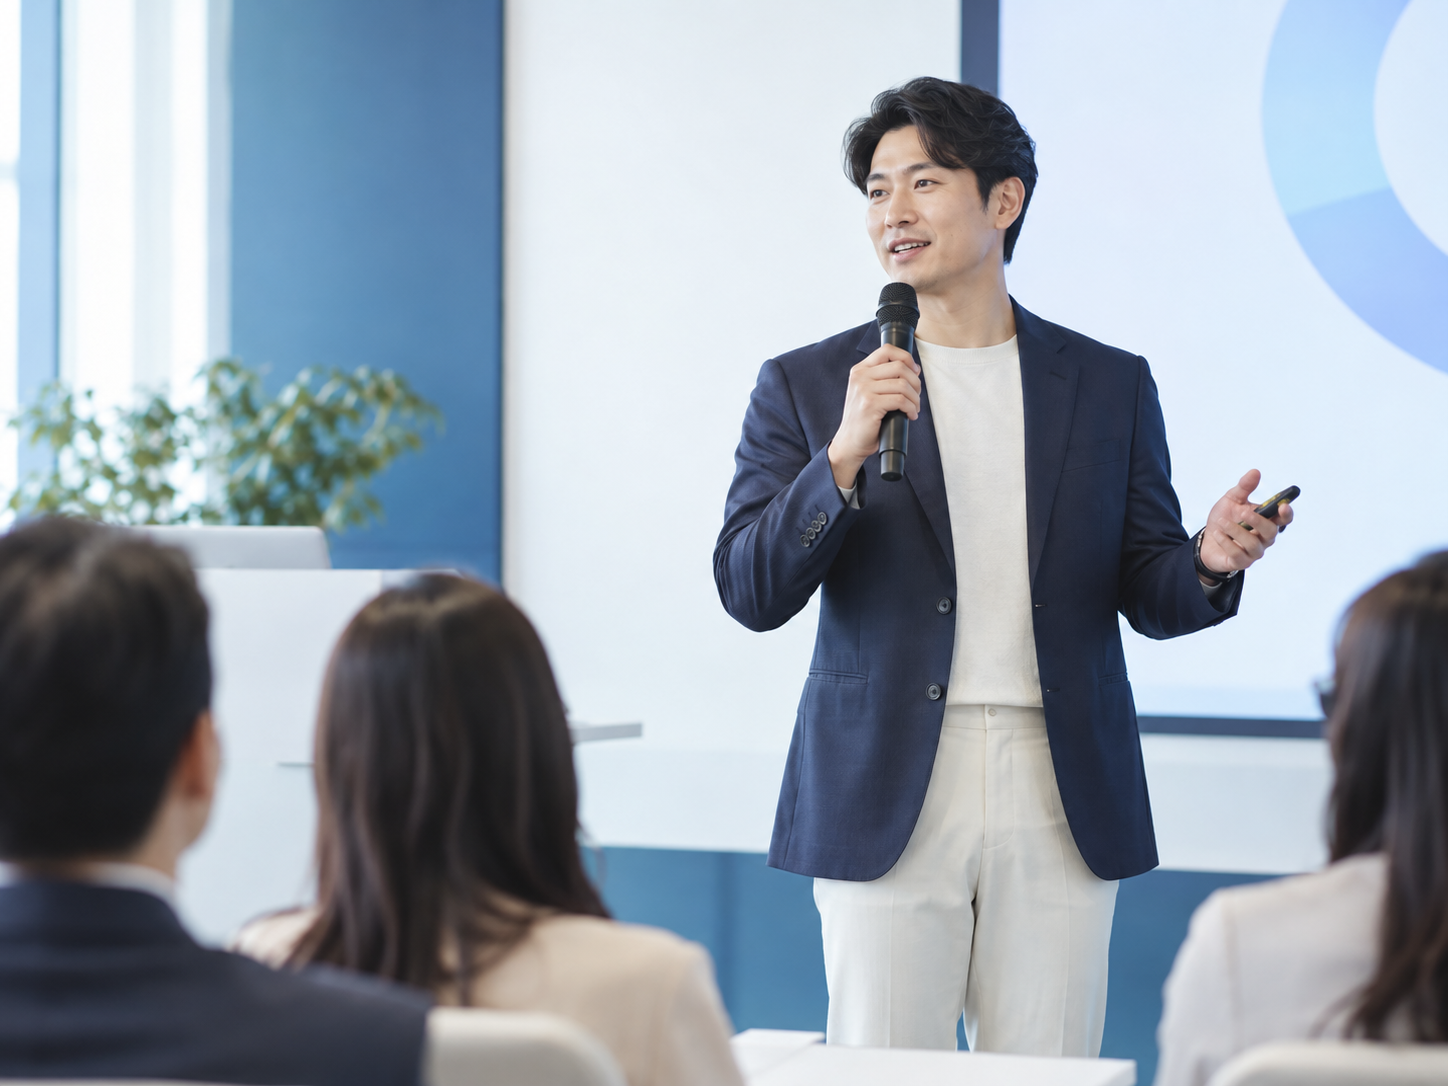
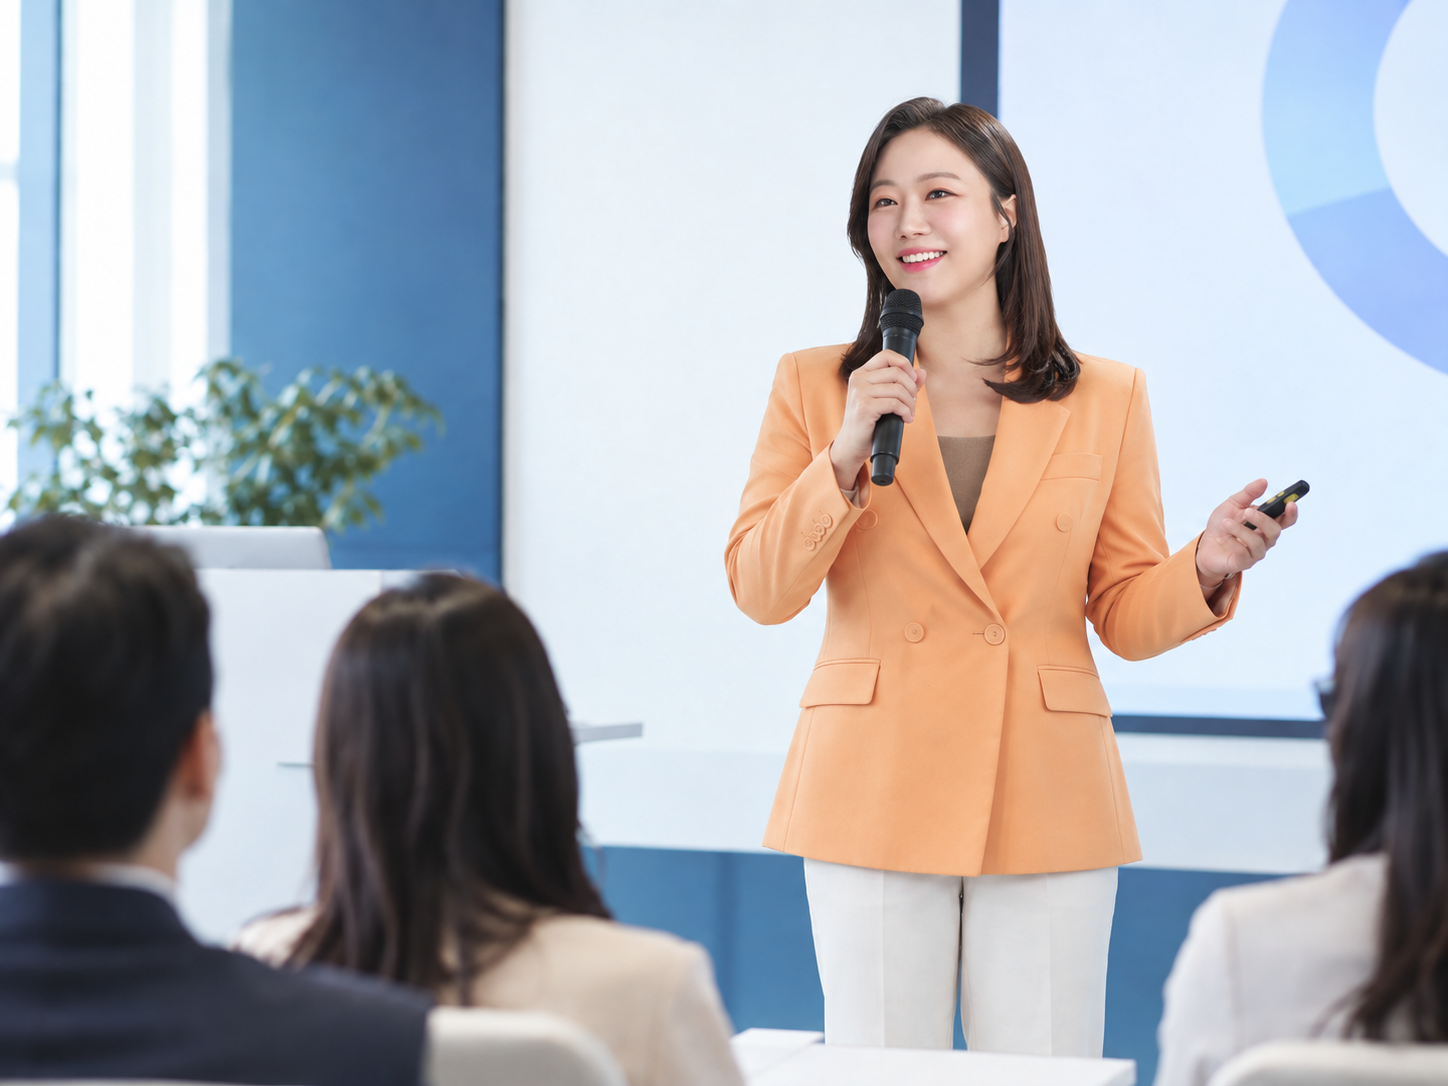
Update hero image and reviews

diff --git a/src/App.jsx b/src/App.jsx
@@ -8,6 +8,7 @@ import {
   ClipboardCheck,
   Clock,
   GraduationCap,
+  Handshake,
   MapPin,
   Menu,
   MessageCircle,
@@ -74,6 +75,19 @@ export default function App() {
     ["입시", "전형별 면접 전략"],
     ["성인", "발표·보이스 실습"],
     ["1:1", "개인별 답변 코칭"],
+  ];
+
+  const partnerLabels = [
+    "대학교 면접",
+    "공공기관 특강",
+    "기업 교육",
+    "청년센터",
+    "커리어센터",
+    "입시 컨설팅",
+    "아카데미 협업",
+    "학교 출강",
+    "기관 발표 교육",
+    "프레젠테이션 코칭",
   ];
 
   const strengths = [
@@ -323,6 +337,30 @@ export default function App() {
       text: "자기소개가 외운 티가 많이 났는데, 제 경험을 자연스럽게 말하는 방식으로 바뀌어서 면접 부담이 줄었어요.",
       author: "이직 면접 준비 수강생",
     },
+    {
+      text: "제시문을 읽고 바로 말로 정리하는 게 어려웠는데, 핵심을 잡는 순서를 배우고 답변이 훨씬 선명해졌습니다.",
+      author: "수시면접 준비 수강생",
+    },
+    {
+      text: "그룹수업에서 다른 분들 앞에서 말해보는 경험이 도움이 컸어요. 발표할 때 시선 처리도 훨씬 자연스러워졌습니다.",
+      author: "성인 그룹수업 수강생",
+    },
+    {
+      text: "면접 답변이 너무 길다는 피드백을 자주 받았는데, 지금은 결론부터 말하고 근거를 붙이는 방식이 익숙해졌어요.",
+      author: "공기업 면접 준비 수강생",
+    },
+    {
+      text: "목소리가 작아서 자신 없어 보인다는 말을 들었는데, 발성 수업 후 첫마디부터 힘 있게 시작할 수 있게 됐습니다.",
+      author: "보이스 코칭 수강생",
+    },
+    {
+      text: "중요한 보고 발표를 앞두고 1:1 수업을 들었는데, 자료 설명보다 메시지를 전달하는 법을 배운 게 가장 좋았습니다.",
+      author: "프리미엄 성인 스피치 수강생",
+    },
+    {
+      text: "학교별 질문을 같이 정리해주셔서 준비 시간이 줄었고, 마지막 모의면접에서 실제 긴장감까지 연습할 수 있었어요.",
+      author: "입시 프리미엄 코칭 수강생",
+    },
   ];
 
   const companyIntroSection = (
@@ -469,16 +507,39 @@ export default function App() {
         </>
       ) : (
         <>
+          <section className="border-b border-slate-100 bg-white py-3">
+            <div className="mx-auto flex max-w-7xl items-center gap-5 overflow-hidden px-5 lg:px-8">
+              <div className="flex shrink-0 items-center gap-2 rounded-full bg-[#0e2442] px-4 py-2 text-sm font-extrabold text-white">
+                <Handshake size={16} />
+                연계·출강 분야
+              </div>
+              <div className="dday-marquee flex min-w-0 flex-1 overflow-hidden">
+                <div className="dday-marquee-track flex shrink-0 items-center gap-3">
+                  {[...partnerLabels, ...partnerLabels].map((label, index) => (
+                    <span
+                      key={`${label}-${index}`}
+                      className="rounded-full border border-slate-100 bg-[#f8fbff] px-4 py-2 text-sm font-bold text-slate-600 shadow-sm"
+                    >
+                      {label}
+                    </span>
+                  ))}
+                </div>
+              </div>
+            </div>
+          </section>
+
           <section id="home" className="relative px-5 pb-20 pt-16 sm:pt-20 lg:px-8 lg:pb-28">
             <div className="absolute inset-x-0 top-0 h-96 bg-gradient-to-b from-sky-50 to-transparent" />
             <div className="relative mx-auto grid max-w-7xl items-center gap-12 lg:grid-cols-[1fr_1fr]">
               <div>
-                <div className="mb-6 inline-flex items-center gap-2 rounded-full border border-sky-100 bg-white px-4 py-2 text-sm font-bold text-sky-700 shadow-sm">
+                <div className="dday-float-y mb-6 inline-flex items-center gap-2 rounded-full border border-sky-100 bg-white px-4 py-2 text-sm font-bold text-sky-700 shadow-sm">
                   <Star size={16} className="fill-sky-100" />
                   입시 면접부터 성인 스피치까지
                 </div>
                 <h1 className="max-w-2xl text-5xl font-extrabold leading-tight tracking-normal text-[#0e2442] sm:text-6xl lg:text-7xl">
-                  중요한 날, 말로 증명하는 사람
+                  중요한 날,
+                  <br />
+                  말로 증명하는 사람
                 </h1>
                 <p className="mt-7 max-w-xl text-lg leading-8 text-slate-600 sm:text-xl">
                   디데이스피치는 입시 면접, 성인 그룹수업, 프리미엄 1:1
@@ -506,7 +567,7 @@ export default function App() {
 
               <div className="relative">
                 <div className="absolute -right-10 top-8 hidden h-28 w-28 rounded-full bg-teal-100/60 blur-2xl lg:block" />
-                <div className="relative overflow-hidden rounded-[2rem] bg-gradient-to-br from-[#dff4ff] via-[#f8fbff] to-[#dff7ef] p-6 shadow-2xl shadow-slate-200/80">
+                <div className="dday-float-soft relative overflow-hidden rounded-[2rem] bg-gradient-to-br from-[#dff4ff] via-[#f8fbff] to-[#dff7ef] p-6 shadow-2xl shadow-slate-200/80">
                   <div className="relative aspect-[4/3] overflow-hidden rounded-[1.45rem] border border-white/80 bg-sky-50">
                     <img
                       src="/adult-speech-hero.png"
@@ -520,7 +581,7 @@ export default function App() {
                     <div className="absolute right-5 top-5 flex size-12 items-center justify-center rounded-full bg-[#0e2442] text-white shadow-lg">
                       <Mic2 size={22} />
                     </div>
-                    <div className="absolute bottom-5 left-5 right-5 grid grid-cols-3 gap-3">
+                    <div className="dday-slide-soft absolute bottom-5 left-5 right-5 grid grid-cols-3 gap-3">
                       {heroStats.map(([label, text]) => (
                         <span
                           key={label}

diff --git a/src/index.css b/src/index.css
@@ -19,6 +19,69 @@ body {
     linear-gradient(180deg, #ffffff 0%, #f8fbff 48%, #ffffff 100%);
 }
 
+.dday-marquee {
+  mask-image: linear-gradient(90deg, transparent, #000 8%, #000 92%, transparent);
+}
+
+.dday-marquee-track {
+  animation: dday-marquee 28s linear infinite;
+}
+
+.dday-float-y {
+  animation: dday-float-y 4.8s ease-in-out infinite;
+}
+
+.dday-float-soft {
+  animation: dday-float-soft 7s ease-in-out infinite;
+}
+
+.dday-slide-soft {
+  animation: dday-slide-soft 6.5s ease-in-out infinite;
+}
+
+@keyframes dday-marquee {
+  from {
+    transform: translateX(0);
+  }
+
+  to {
+    transform: translateX(-50%);
+  }
+}
+
+@keyframes dday-float-y {
+  0%,
+  100% {
+    transform: translateY(0);
+  }
+
+  50% {
+    transform: translateY(-8px);
+  }
+}
+
+@keyframes dday-float-soft {
+  0%,
+  100% {
+    transform: translateY(0);
+  }
+
+  50% {
+    transform: translateY(10px);
+  }
+}
+
+@keyframes dday-slide-soft {
+  0%,
+  100% {
+    transform: translateX(0);
+  }
+
+  50% {
+    transform: translateX(8px);
+  }
+}
+
 .text-xs {
   font-size: 1rem !important;
   line-height: 1.55rem !important;
@@ -37,4 +100,14 @@ body {
 button,
 a {
   -webkit-tap-highlight-color: transparent;
+}
+
+@media (prefers-reduced-motion: reduce) {
+  *,
+  *::before,
+  *::after {
+    animation-duration: 0.01ms !important;
+    animation-iteration-count: 1 !important;
+    scroll-behavior: auto !important;
+  }
 }
